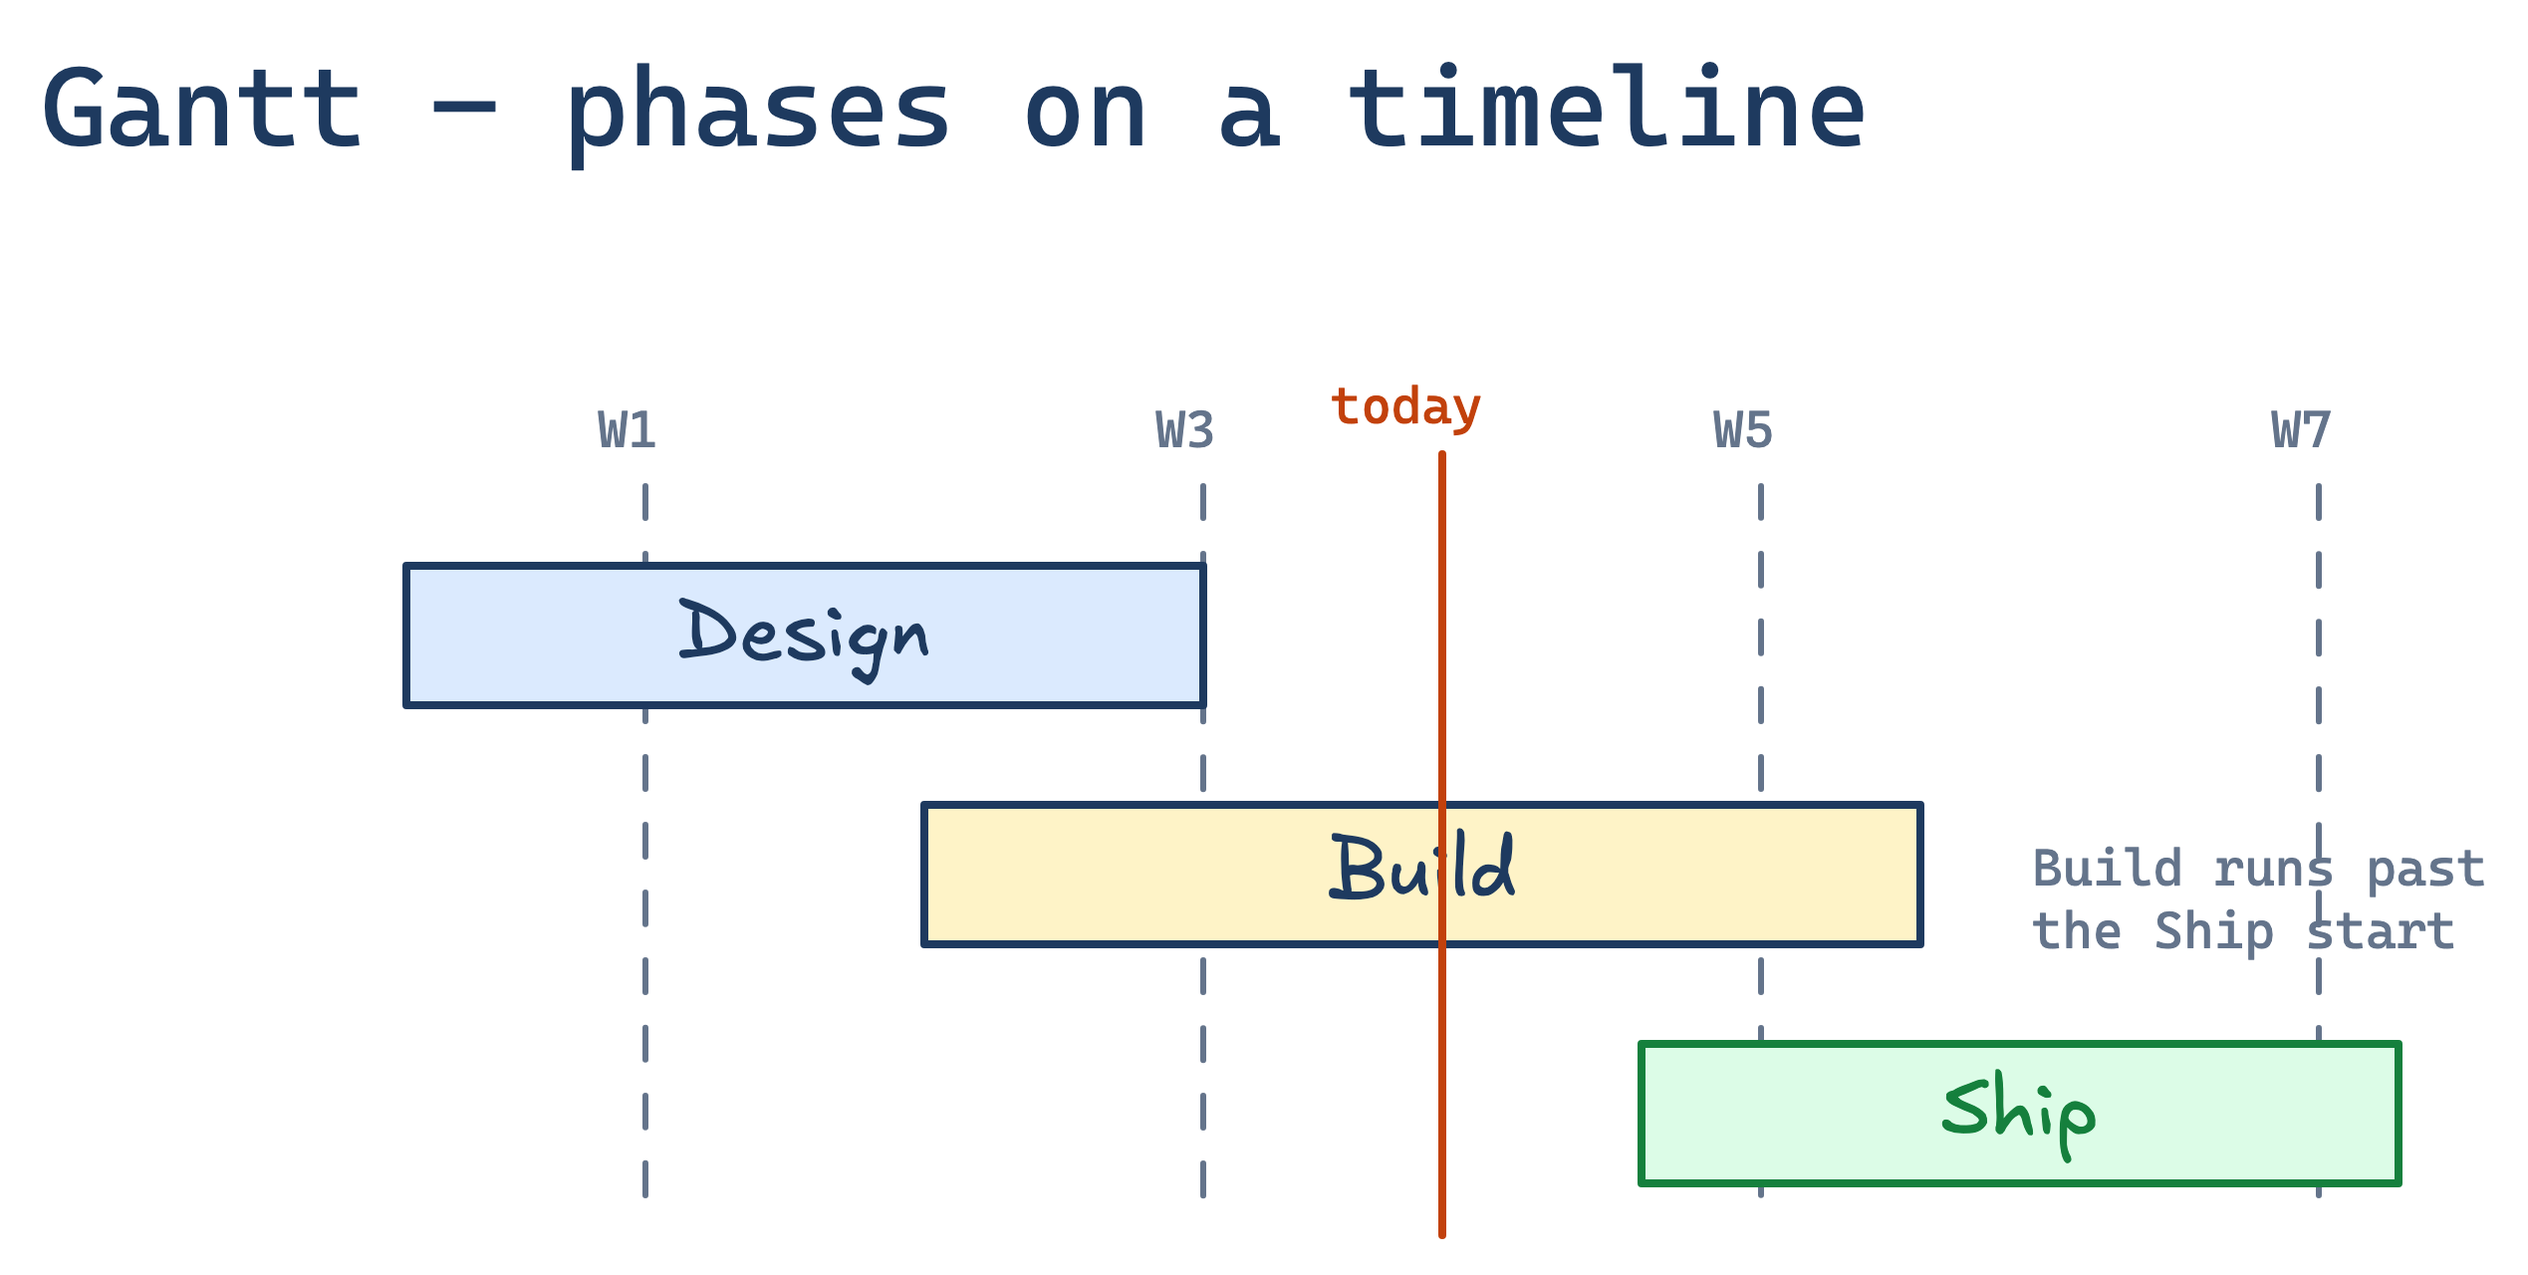
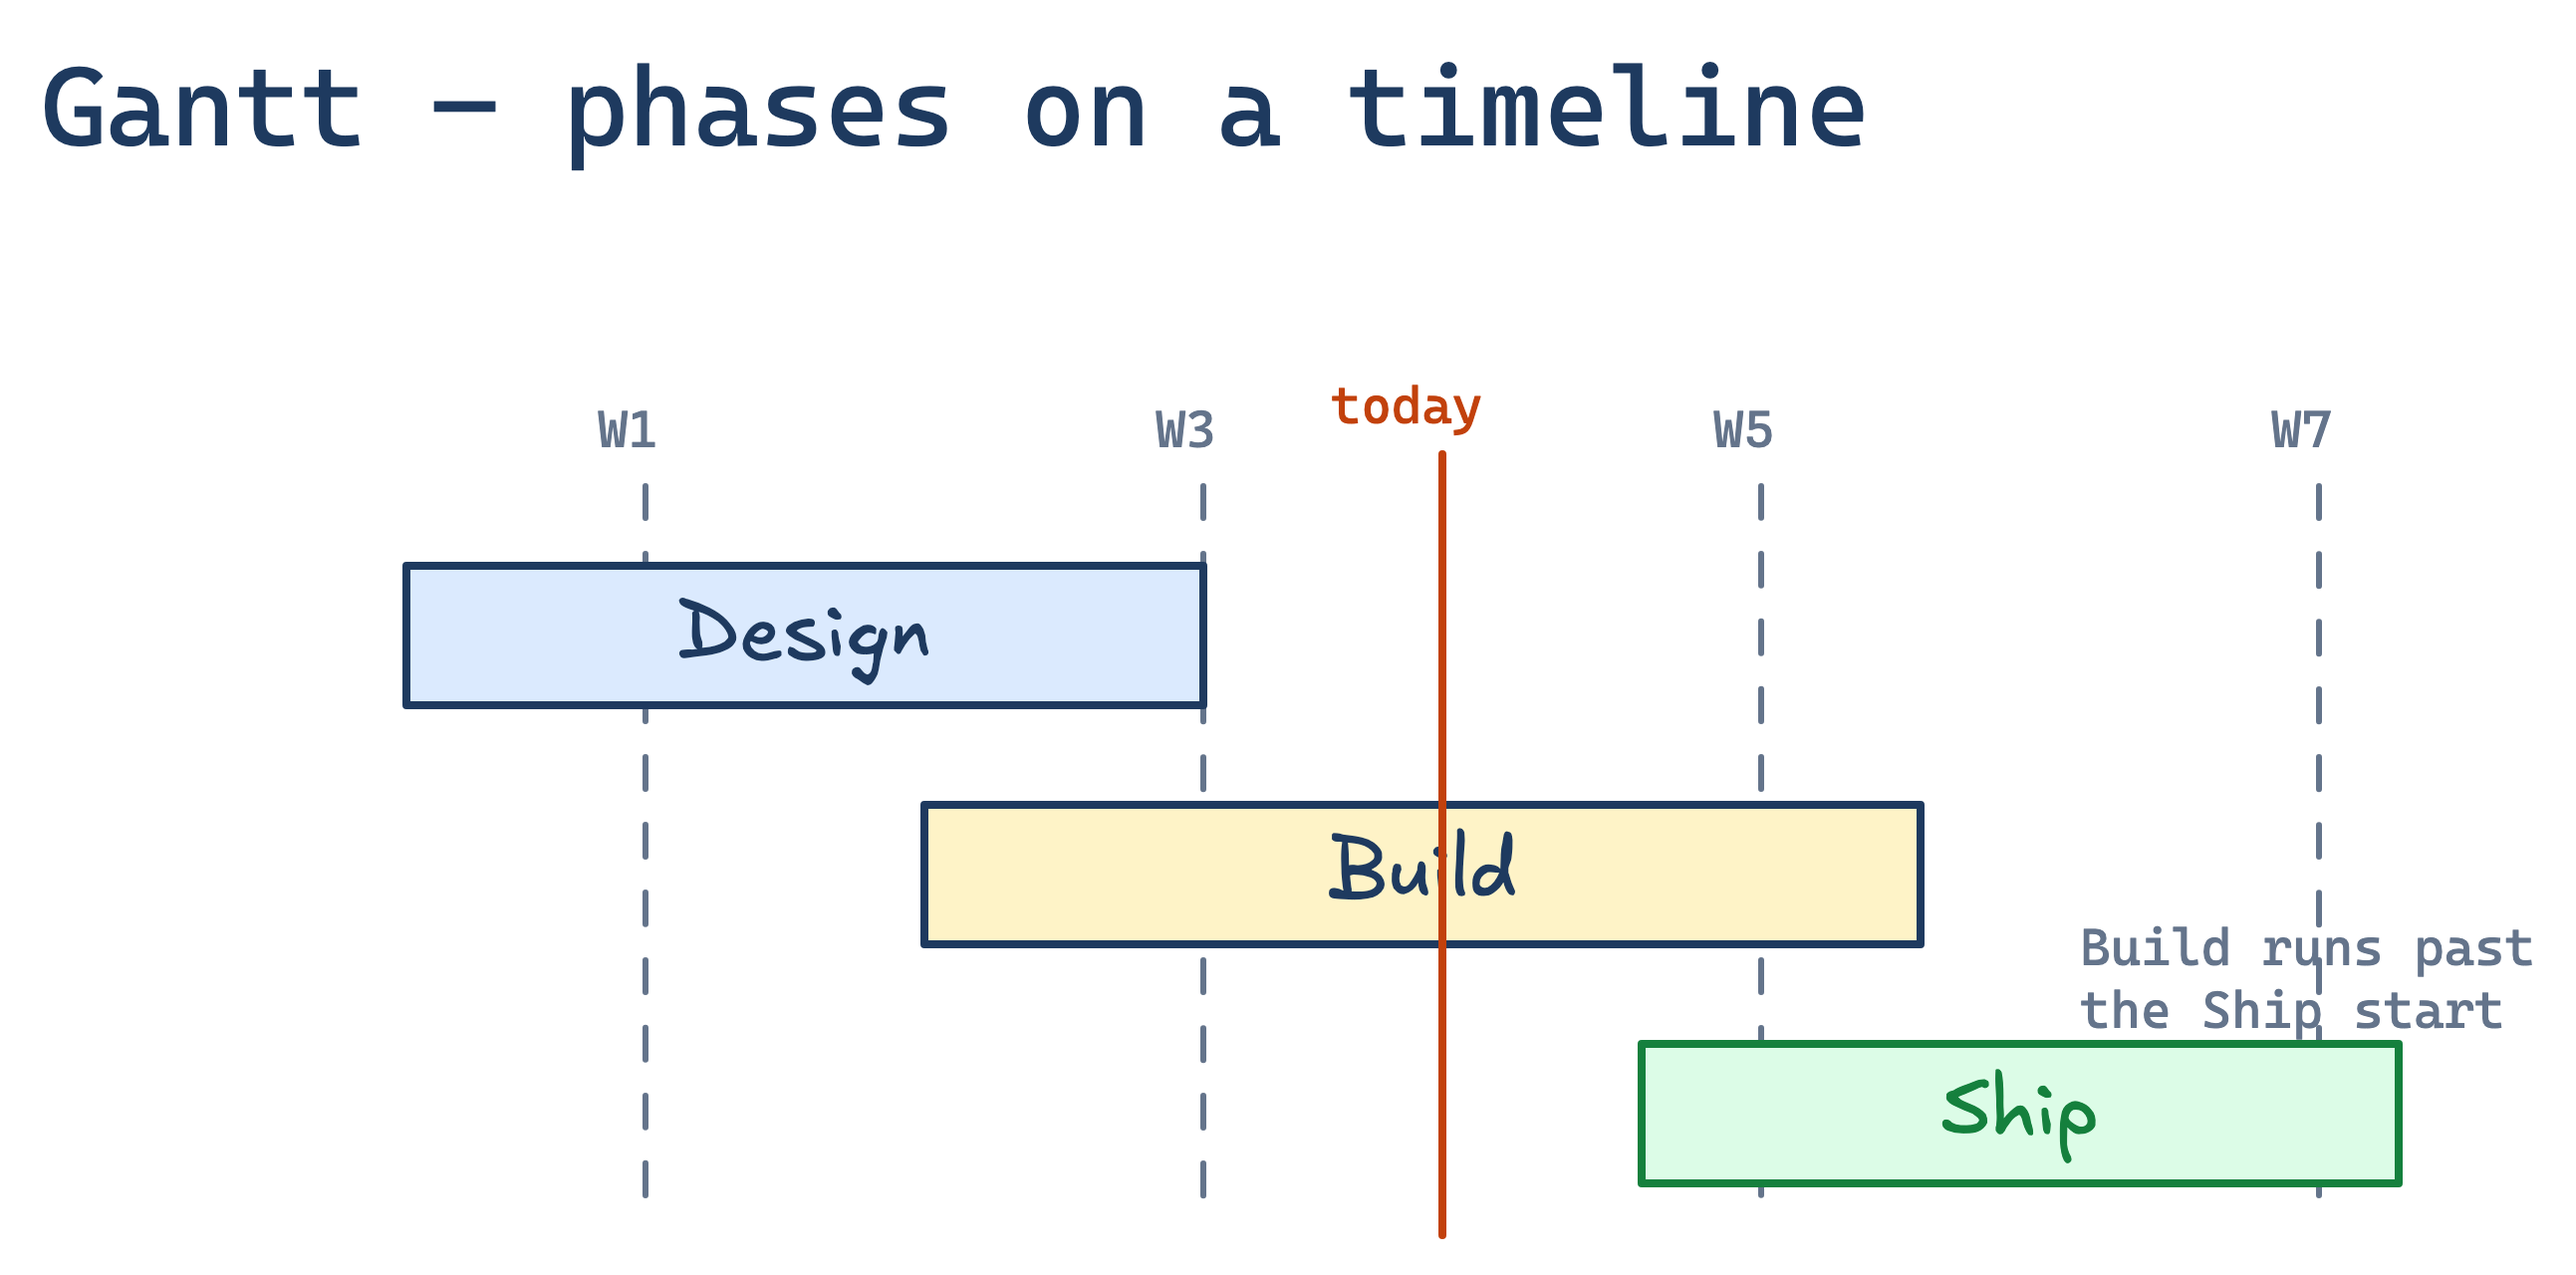
Pin the 29 type renders behind a golden regression suite
Every type fixture now has a pixelmatch gate at the same scale the gallery
ships. Nested gains a Gateway→API route so containment is not the only claim,
and the Gantt slip note clears the Ship bar.

diff --git a/packages/renderer-node/tests/types-regression.test.ts b/packages/renderer-node/tests/types-regression.test.ts
@@ -1,0 +1,42 @@
+import { describe, it, expect } from "vitest";
+import { readFile, readdir } from "node:fs/promises";
+import { dirname, join } from "node:path";
+import { fileURLToPath } from "node:url";
+import { PNG } from "pngjs";
+import pixelmatch from "pixelmatch";
+import { renderToPng } from "../src/render.js";
+
+const __dirname = dirname(fileURLToPath(import.meta.url));
+const TYPES = join(__dirname, "..", "..", "shared", "fixtures", "types");
+const GOLDENS = join(__dirname, "..", "..", "shared", "fixtures", "golden", "types");
+
+async function listTypes(): Promise<string[]> {
+  return (await readdir(TYPES, { withFileTypes: true }))
+    .filter((d) => d.isDirectory())
+    .map((d) => d.name)
+    .sort();
+}
+
+const types = await listTypes();
+
+describe.concurrent("type fixture regression", () => {
+  it.each(types)("%s within 5% of golden", async (name) => {
+    const src = await readFile(join(TYPES, name, "example.excalidraw"), "utf-8");
+    const golden = PNG.sync.read(await readFile(join(GOLDENS, `${name}.png`)));
+    const actual = PNG.sync.read(
+      await renderToPng(src, { theme: "default-sketchy", scale: 2, width: 900 })
+    );
+    expect(actual.width).toBe(golden.width);
+    expect(actual.height).toBe(golden.height);
+    const diff = new PNG({ width: golden.width, height: golden.height });
+    const mismatched = pixelmatch(
+      actual.data,
+      golden.data,
+      diff.data,
+      golden.width,
+      golden.height,
+      { threshold: 0.1 }
+    );
+    expect(mismatched / (golden.width * golden.height)).toBeLessThan(0.05);
+  }, 120_000);
+});
